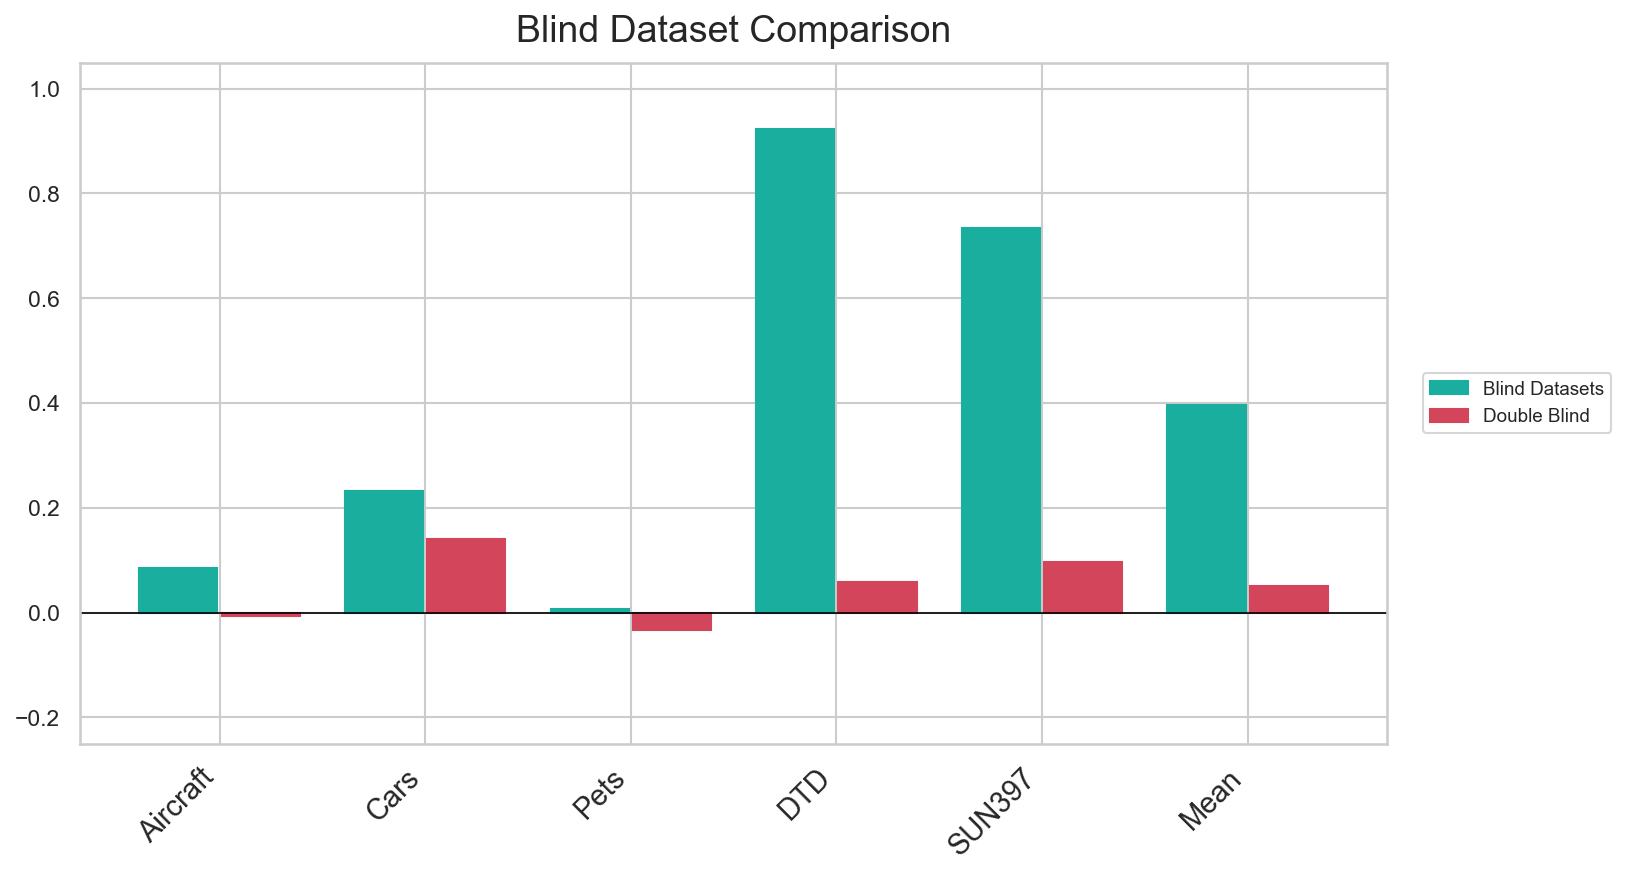
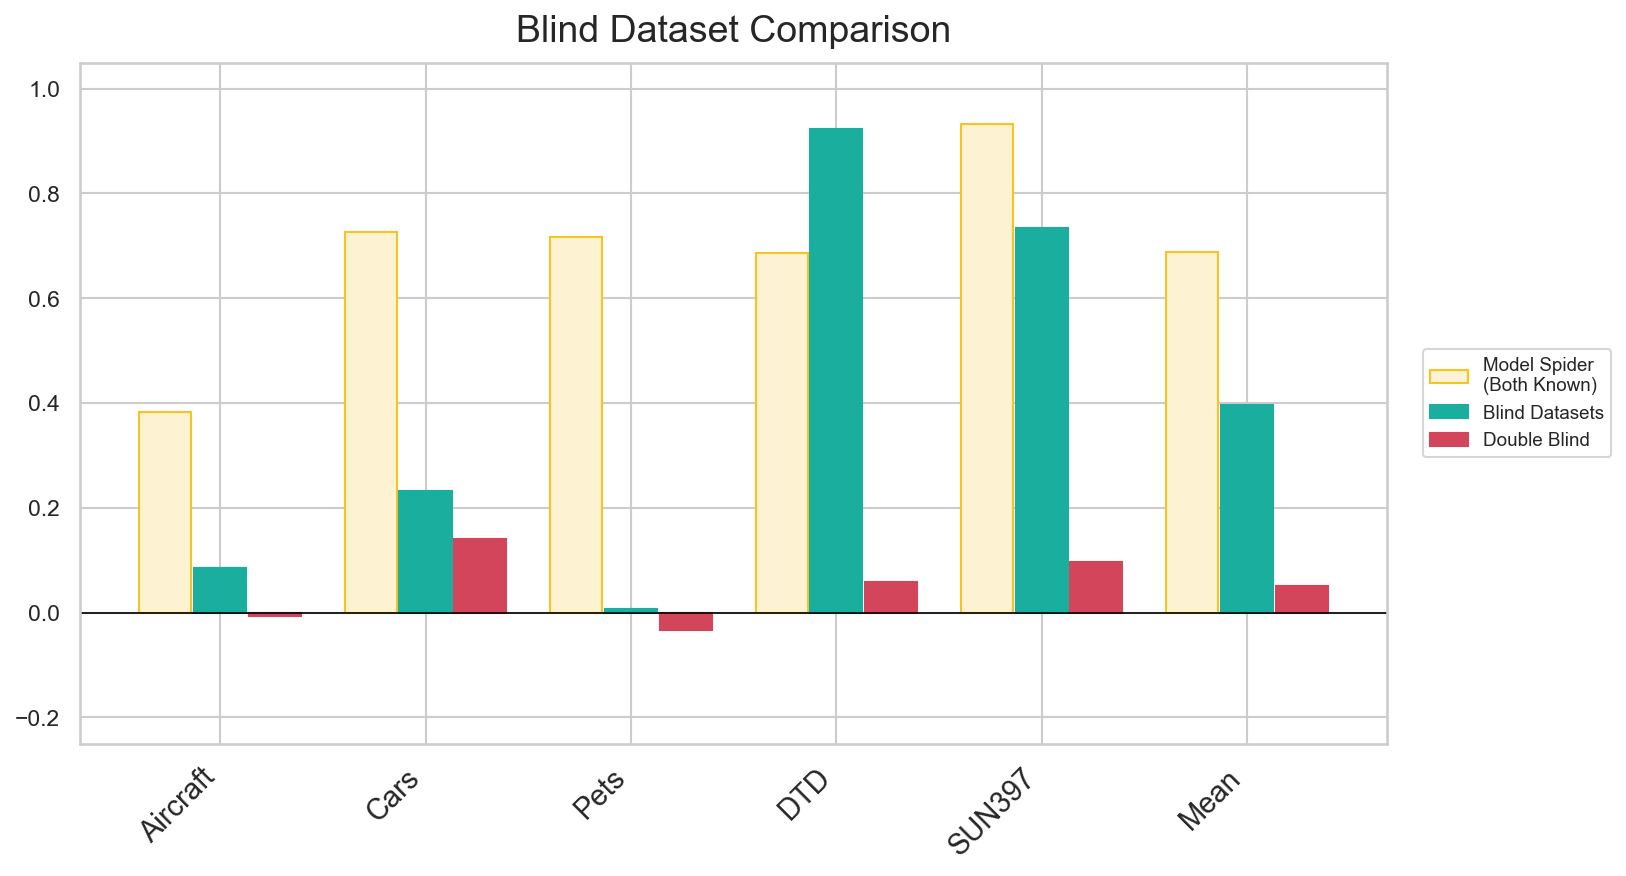
Updating ploting scripts

diff --git a/scripts/plot_results.py b/scripts/plot_results.py
@@ -32,15 +32,17 @@ set_theme(style="whitegrid")
 #     "Mean": [0.860, -0.029],
 # }
 
-metrics = ["Blind Datasets", "Double Blind"]
+metrics = ["Model Spider\n(Both Known)", "Blind Datasets", "Double Blind"]
 data = {
-    "Aircraft": [0.085, -0.006],
-    "Cars": [0.232, 0.140],
-    "Pets": [0.006, -0.033],
-    "DTD": [0.923, 0.059],
-    "SUN397": [0.734, 0.096],
-    "Mean": [0.396, 0.051],
+    "Aircraft": [0.382, 0.085, -0.006],
+    "Cars": [0.727, 0.232, 0.140],
+    "Pets": [0.717, 0.006, -0.033],
+    "DTD": [0.686, 0.923, 0.059],
+    "SUN397": [0.933, 0.734, 0.096],
+    "Mean": [0.689, 0.396, 0.051],
 }
+
+
 
 df = pd.DataFrame(data, index=metrics)
 
@@ -57,7 +59,7 @@ palette = [
     # ("#D2E4E1", "#207868"),   # green
     # ("#D1EFEC", "#1AAE9F"),   # mint
     # ("#F2D6F6", "#BD34D1"),   # purple
-    # ("#F7C325", "#F7C325"),   # yellow solid ModelSpider
+    ("#FDF3D3", "#F7C325"),   # yellow solid ModelSpider
     ("#1AAE9F", "#1AAE9F"),    # mint solid Cross-sight
     ("#D3455B", "#D3455B")    # red solid
 ]
